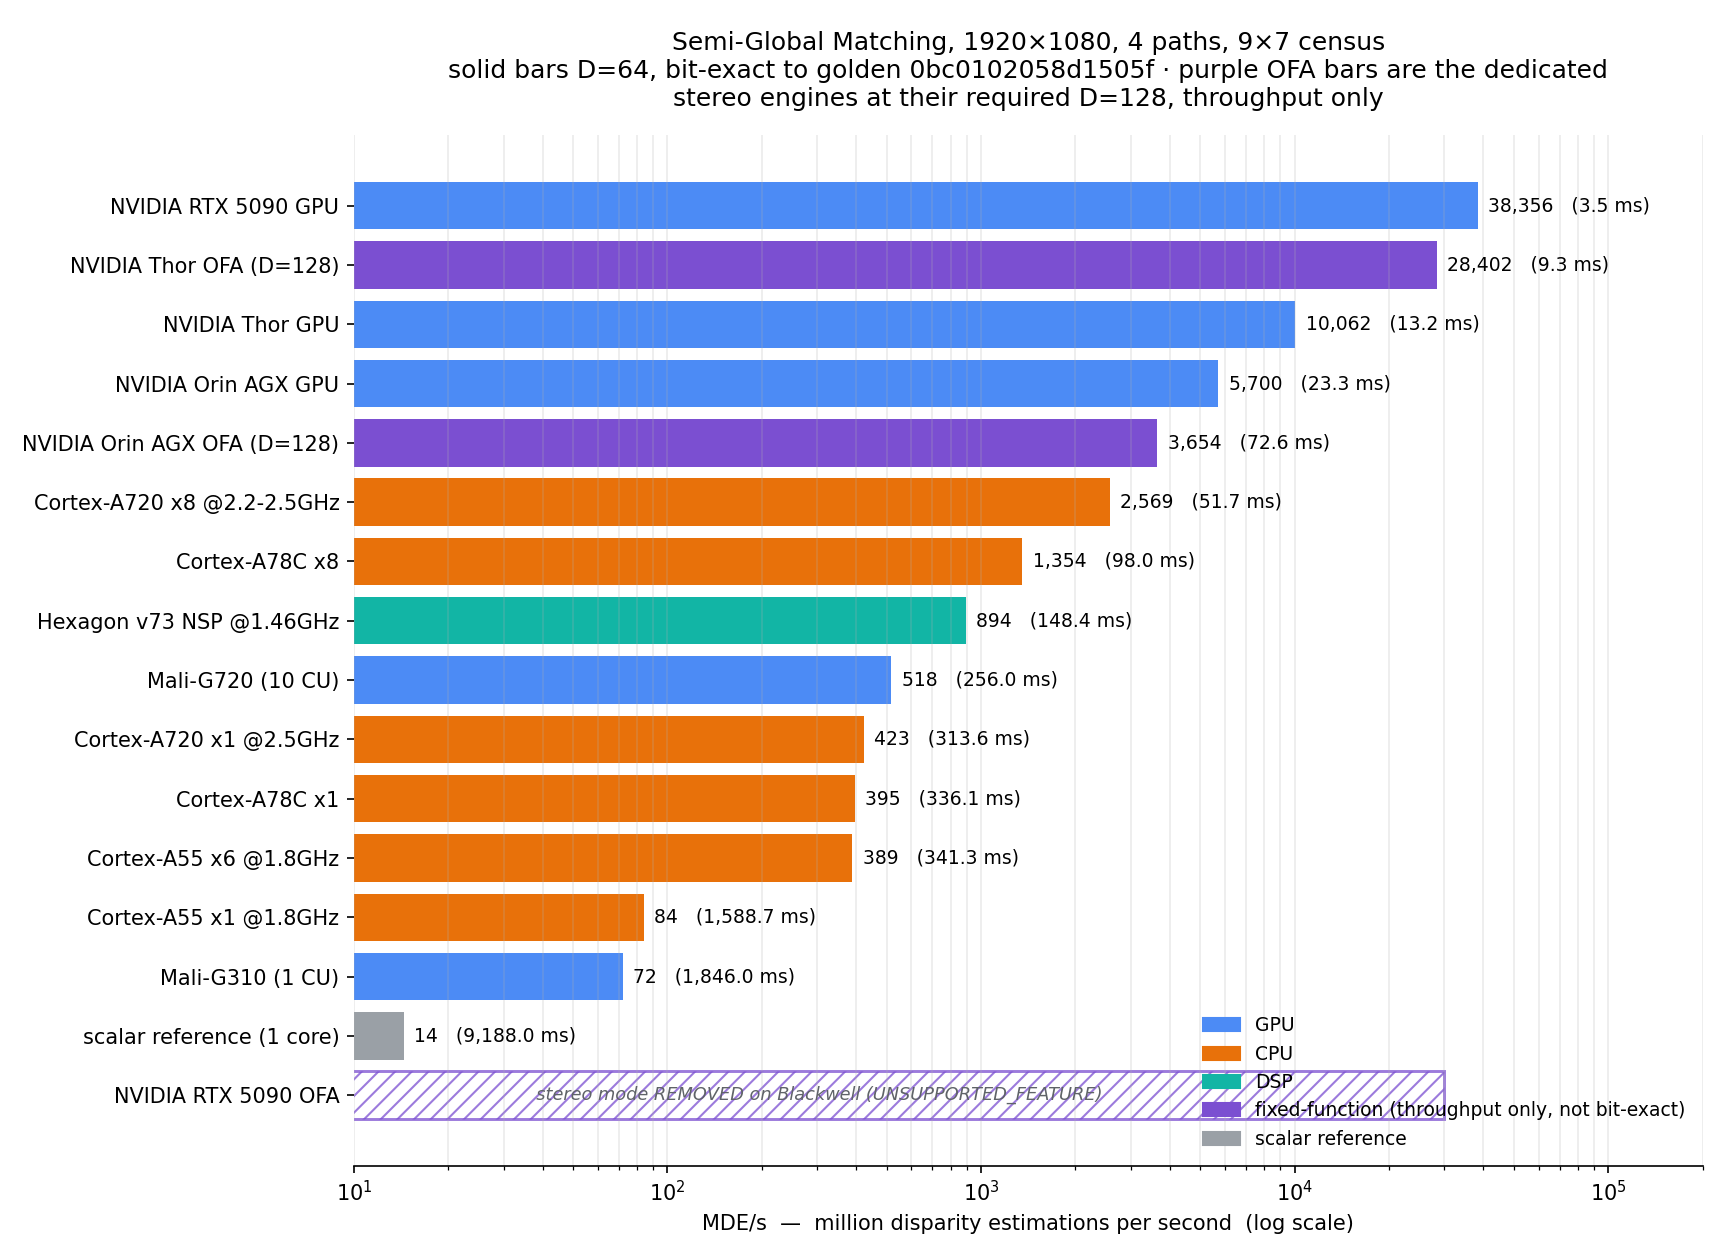
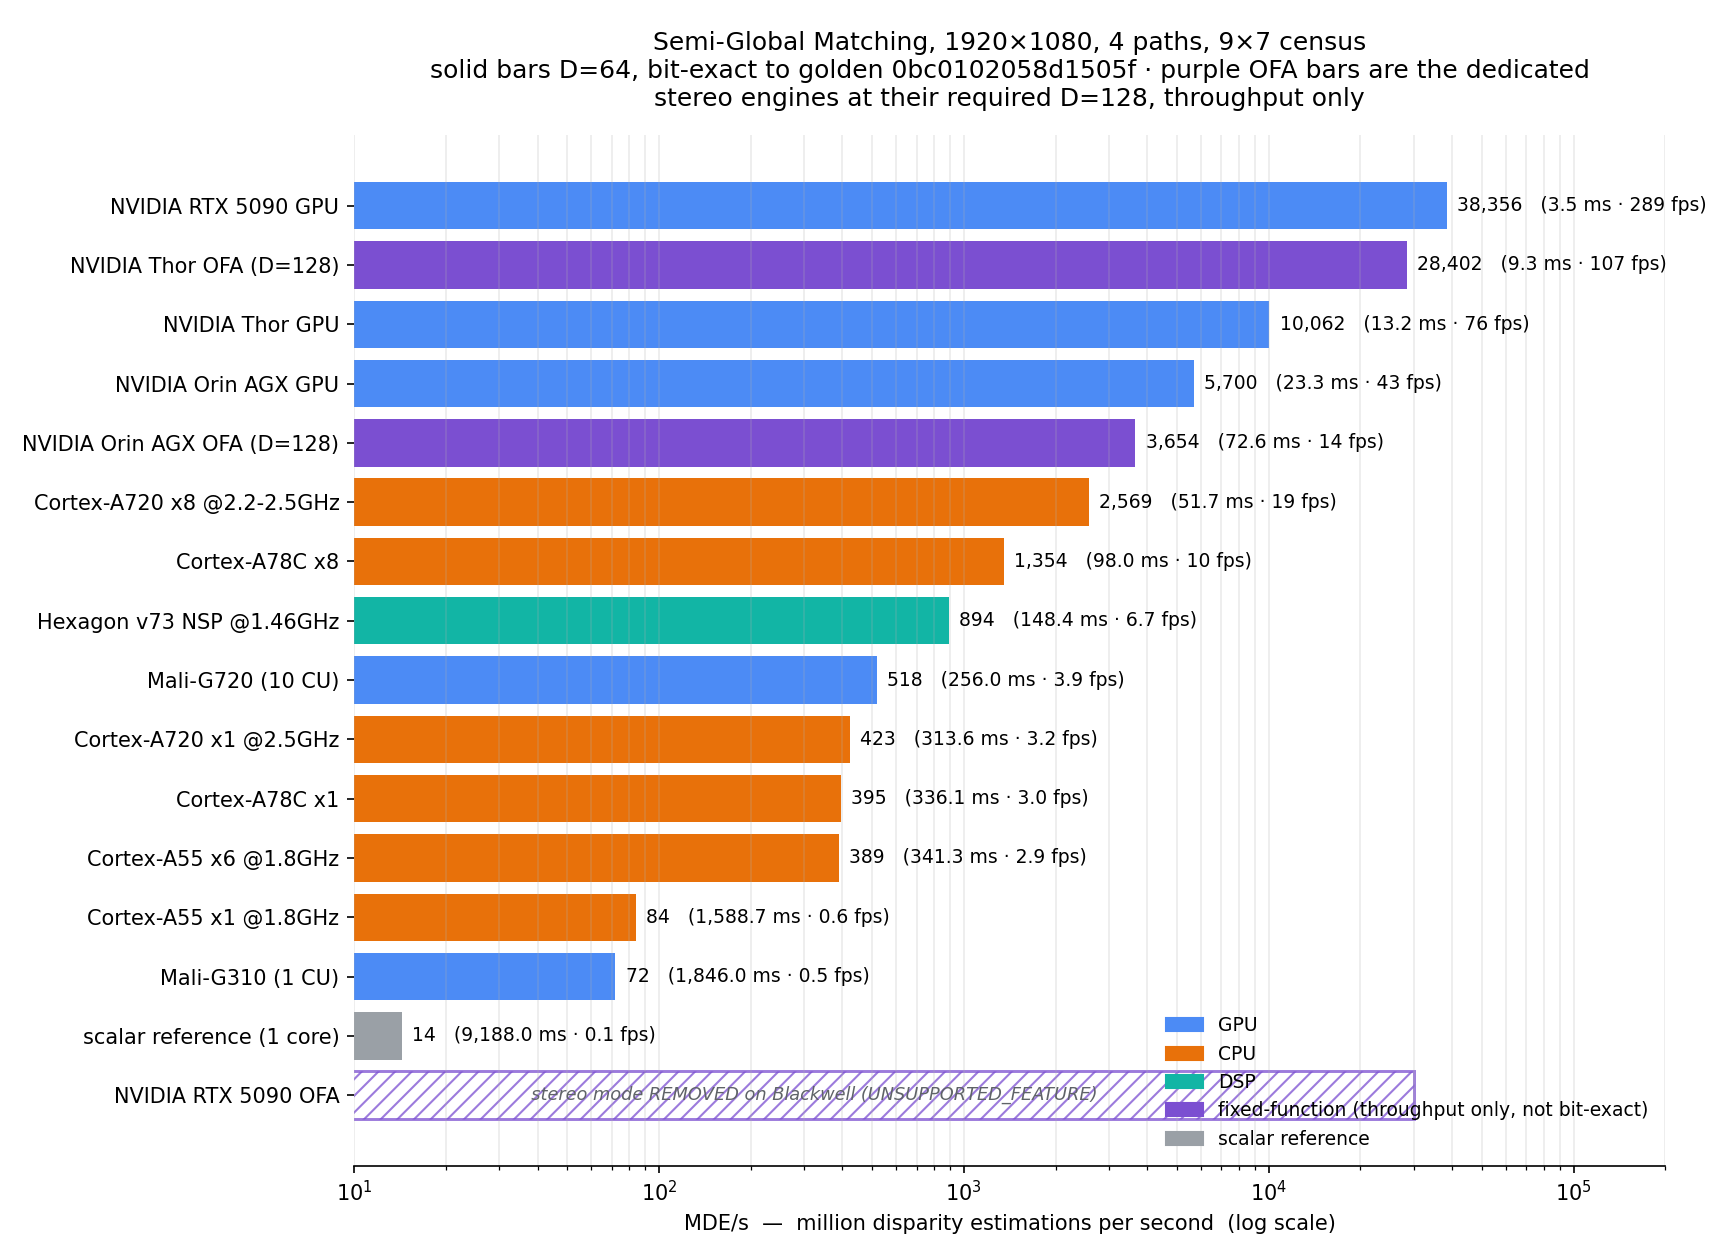
chart: fps on every bar label
Readers who cannot translate MDE/s in their head get the number everyone can:
frames per second at 1080p, beside the milliseconds. 289 fps at the top, 0.1
at the scalar floor. MDE/s stays the headline unit because fps hides D -- the
OFA bars run D=128 -- but the fps is now on the figure for orientation.

diff --git a/scripts/make_chart.py b/scripts/make_chart.py
@@ -49,7 +49,9 @@ for i, (lab, cls, ms, mde) in enumerate(rows):
                 va="center", ha="left", fontsize=8.5, color="#5f6368", style="italic")
     else:
         ax.barh(i, mde, color=COL[cls])
-        ax.text(mde * 1.08, i, f"{mde:,.0f}   ({ms:,.1f} ms)", va="center", fontsize=9)
+        fps = 1000.0 / ms
+        fps_s = f"{fps:,.0f} fps" if fps >= 10 else f"{fps:.1f} fps"
+        ax.text(mde * 1.08, i, f"{mde:,.0f}   ({ms:,.1f} ms · {fps_s})", va="center", fontsize=9)
 
 ax.set_yticks(list(y)); ax.set_yticklabels(labels, fontsize=10)
 ax.invert_yaxis()
